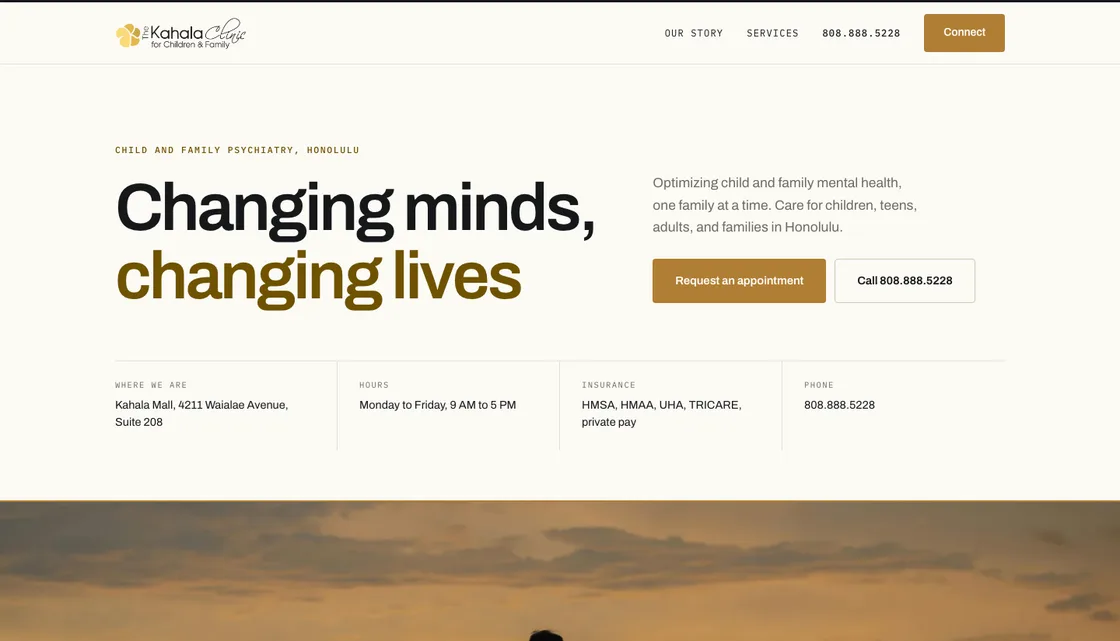
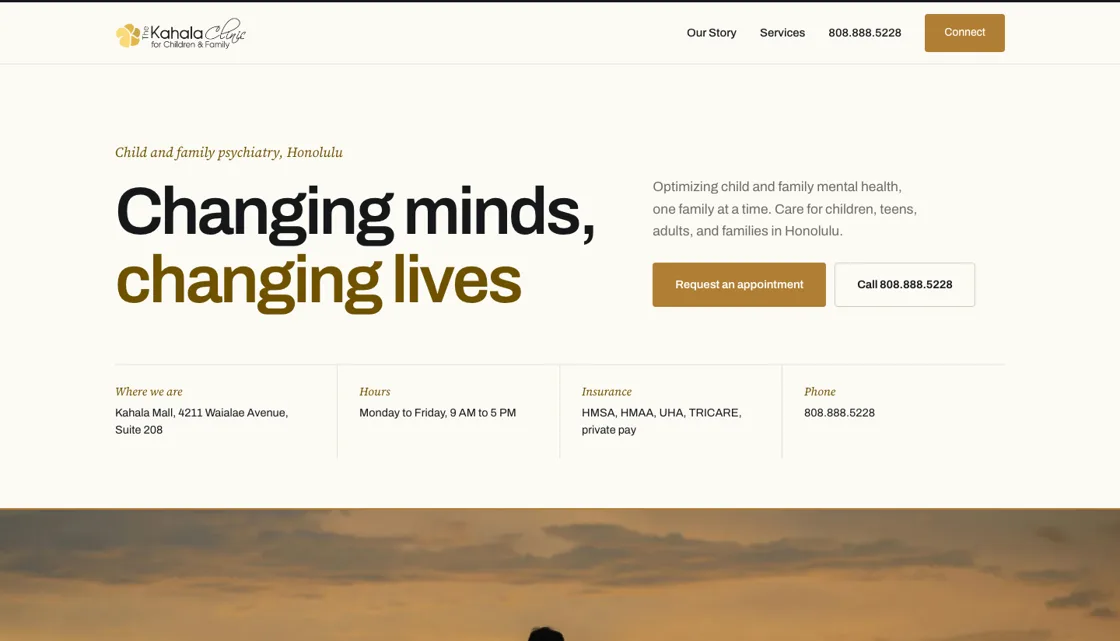
Daybreak: warm serif captions and numbers, parallax photo band, tighter approach
Swaps the monospaced labels, nav, captions and numbering for Archivo and
Source Serif 4, gives the Kahala, Honolulu band a gentle scroll parallax
(rAF throttled, off for reduced motion), and tightens the approach section
with a large serif numeral beside each point. Index card text and the
thumbnail are updated to match.

diff --git a/kahalaclinic/designs/two/index.html b/kahalaclinic/designs/two/index.html
@@ -7,7 +7,7 @@
 <title>Direction Two, Daybreak | Kahala Clinic Design Preview</title>
 <link rel="preconnect" href="https://fonts.googleapis.com">
 <link rel="preconnect" href="https://fonts.gstatic.com" crossorigin>
-<link href="https://fonts.googleapis.com/css2?family=Archivo:wght@400;500;600;700&family=IBM+Plex+Mono:wght@400;500&display=swap" rel="stylesheet">
+<link href="https://fonts.googleapis.com/css2?family=Archivo:wght@400;500;600;700&family=Source+Serif+4:ital,opsz,wght@0,8..60,400;0,8..60,500;1,8..60,400&display=swap" rel="stylesheet">
 <style>
 :root{
   --paper:#FCFAF5; --paper-2:#F5F1E8; --white:#FFFFFF;
@@ -16,7 +16,7 @@
   --line:#E4DFD3; --line-strong:#CFC7B5;
   --display:'Archivo',-apple-system,BlinkMacSystemFont,'Segoe UI',sans-serif;
   --body:'Archivo',-apple-system,BlinkMacSystemFont,'Segoe UI',sans-serif;
-  --mono:'IBM Plex Mono',ui-monospace,SFMono-Regular,Menlo,monospace;
+  --serif:'Source Serif 4',Georgia,'Times New Roman',serif;
   --max:1200px;
 }
 *{margin:0;padding:0;box-sizing:border-box}
@@ -35,7 +35,7 @@ h1,h2,h3{font-family:var(--display);font-weight:600;line-height:1.1;letter-spaci
 h2{font-size:clamp(30px,4.2vw,47px)}
 h3{font-size:19px;line-height:1.32;letter-spacing:-.015em}
 p{color:var(--muted)}
-.mono{font-family:var(--mono);font-size:11.5px;letter-spacing:.14em;text-transform:uppercase;color:var(--gold-deep);font-weight:500}
+.eyebrow{font-family:var(--serif);font-style:italic;font-size:18px;line-height:1.3;color:var(--gold-deep);font-weight:400}
 section{padding:clamp(66px,7.5vw,108px) 0}
 section.tight{padding:clamp(52px,6vw,80px) 0}
 .rule{height:1px;background:var(--line);border:0}
@@ -51,9 +51,9 @@ section.tight{padding:clamp(52px,6vw,80px) 0}
 .nav-in{max-width:var(--max);margin:0 auto;padding:15px 28px;display:flex;align-items:center;justify-content:space-between;gap:20px}
 .nav-logo img{height:42px;width:auto}
 .nav-links{display:flex;align-items:center;gap:30px}
-.nav-links a{font-family:var(--mono);font-size:12px;letter-spacing:.1em;text-transform:uppercase;text-decoration:none}
+.nav-links a{font-family:var(--body);font-size:15px;font-weight:500;letter-spacing:-.005em;text-decoration:none}
 .nav-links a:not(.btn):hover{color:var(--gold-deep)}
-.nav-links a.btn{font-family:var(--display);font-size:14px;letter-spacing:-.01em;text-transform:none;padding:12px 24px}
+.nav-links a.btn{font-family:var(--display);font-size:14px;letter-spacing:-.01em;padding:12px 24px}
 .nav-phone{font-weight:500}
 .nav-call{display:none}
 
@@ -70,21 +70,22 @@ section.tight{padding:clamp(52px,6vw,80px) 0}
 .fact{padding:22px 28px 26px 28px;border-right:1px solid var(--line)}
 .fact:first-child{padding-left:0}
 .fact:last-child{border-right:0;padding-right:0}
-.fact-l{font-family:var(--mono);font-size:10.5px;letter-spacing:.14em;text-transform:uppercase;color:var(--muted);margin-bottom:7px}
+.fact-l{font-family:var(--serif);font-style:italic;font-size:15px;color:var(--gold-deep);margin-bottom:5px}
 .fact p{color:var(--ink);font-size:14.5px;line-height:1.5}
 
 /* cinematic band */
-.band{position:relative;overflow:hidden;border-top:2px solid var(--gold);margin-top:clamp(40px,4.6vw,64px)}
-.band img{width:100%;aspect-ratio:21/8;object-fit:cover;object-position:center 44%;transform:scale(1.06);transition:transform 1.8s cubic-bezier(.2,.7,.3,1)}
+.band{position:relative;overflow:hidden;aspect-ratio:21/8;border-top:2px solid var(--gold);margin-top:clamp(40px,4.6vw,64px)}
+.band-media{position:absolute;left:0;right:0;top:-20%;bottom:-20%;will-change:transform}
+.band img{width:100%;height:100%;object-fit:cover;object-position:center 44%;transform:scale(1.06);transition:transform 1.8s cubic-bezier(.2,.7,.3,1)}
 .hero.in .band img{transform:none}
-.band-cap{position:absolute;right:22px;bottom:16px;font-family:var(--mono);font-size:10.5px;letter-spacing:.14em;text-transform:uppercase;color:#fff;text-shadow:0 1px 10px rgba(0,0,0,.6)}
+.band-cap{position:absolute;right:24px;bottom:16px;font-family:var(--serif);font-style:italic;font-size:17px;color:#fff;text-shadow:0 1px 12px rgba(0,0,0,.6)}
 
 /* story */
 .story{display:grid;grid-template-columns:5fr 7fr;gap:clamp(28px,4.6vw,70px);align-items:center}
 .story p+p{margin-top:14px}
 .shot{position:relative}
 .shot img{width:100%;aspect-ratio:4/5;object-fit:cover;filter:grayscale(1) contrast(1.04)}
-.shot-cap{font-family:var(--mono);font-size:10.5px;letter-spacing:.12em;text-transform:uppercase;color:var(--muted);margin-top:11px}
+.shot-cap{font-family:var(--serif);font-style:italic;font-size:15px;color:var(--muted);margin-top:10px}
 
 /* mission, oversized statement */
 .mission{background:var(--paper-2);border-top:1px solid var(--line);border-bottom:1px solid var(--line)}
@@ -98,11 +99,12 @@ section.tight{padding:clamp(52px,6vw,80px) 0}
 .care-side{position:sticky;top:112px}
 .care-side p{margin-top:18px;font-size:16.5px;max-width:34ch}
 .care-bar{width:64px;height:3px;background:var(--gold);margin-top:28px}
-.care-item{padding-bottom:clamp(56px,8vw,120px)}
+.care-item{display:grid;grid-template-columns:clamp(44px,4.6vw,64px) 1fr;gap:clamp(14px,2vw,24px);align-items:start;padding-bottom:clamp(30px,3.6vw,46px)}
 .care-item:last-child{padding-bottom:0}
-.care-tag{font-family:var(--mono);font-size:11.5px;letter-spacing:.14em;color:var(--gold);margin-bottom:16px}
-.care-item h3{font-size:clamp(23px,2.5vw,31px);line-height:1.18;letter-spacing:-.025em;max-width:26ch}
-.care-item p{margin-top:14px;font-size:16.5px;max-width:46ch}
+.care-tag{font-family:var(--serif);font-size:clamp(40px,4.4vw,56px);line-height:.9;color:var(--gold);font-weight:400}
+.care-item h3{font-size:clamp(22px,2.3vw,28px);line-height:1.2;letter-spacing:-.025em;max-width:26ch}
+.care-item p{margin-top:10px;font-size:16.5px;max-width:46ch}
+section.care-sec{padding:clamp(56px,6vw,88px) 0}
 
 /* treatment, an open grid divided by one hairline cross */
 .offer{background:var(--paper-2);border-top:1px solid var(--line)}
@@ -112,18 +114,18 @@ section.tight{padding:clamp(52px,6vw,80px) 0}
 .cell{background:var(--paper-2);padding:clamp(28px,3.4vw,44px) clamp(24px,3.4vw,48px);min-height:clamp(180px,18vw,240px);display:flex;flex-direction:column;justify-content:space-between;gap:28px;transition:background-color .3s ease}
 .cell:nth-child(odd){padding-left:0}
 .cell:hover{background:var(--paper)}
-.cell-n{font-family:var(--mono);font-size:11.5px;letter-spacing:.14em;color:var(--gold)}
+.cell-n{font-family:var(--serif);font-size:34px;line-height:1;color:var(--gold);font-weight:400}
 .cell-t{font-family:var(--display);font-weight:600;font-size:clamp(22px,2.4vw,30px);line-height:1.15;letter-spacing:-.025em;color:var(--ink)}
 .cell-p{margin-top:10px;font-size:15px;max-width:34ch}
 
 /* footer */
 .foot{background:var(--ink);color:#E6E2D9;padding:clamp(54px,6vw,78px) 0 0}
 .foot-grid{display:grid;grid-template-columns:1.5fr 1fr 1fr 1fr;gap:34px}
-.foot h4{font-family:var(--mono);font-size:10.5px;letter-spacing:.14em;text-transform:uppercase;color:var(--gold-light);font-weight:500;margin-bottom:12px}
+.foot h4{font-family:var(--serif);font-style:italic;font-size:17px;color:var(--gold-light);font-weight:400;margin-bottom:10px}
 .foot p{font-size:14.5px;color:#E6E2D9;line-height:1.75}
 .foot-logo img{height:48px;width:auto;margin-bottom:14px}
 .foot-note{color:#A7A196;margin-top:9px;font-size:13.5px}
-.foot-bottom{margin-top:clamp(38px,4vw,54px);border-top:1px solid #2E3135;padding:20px 0 26px;display:flex;justify-content:space-between;gap:14px;flex-wrap:wrap;font-family:var(--mono);font-size:11px;letter-spacing:.08em;text-transform:uppercase;color:#A7A196}
+.foot-bottom{margin-top:clamp(38px,4vw,54px);border-top:1px solid #2E3135;padding:20px 0 26px;display:flex;justify-content:space-between;gap:14px;flex-wrap:wrap;font-size:13.5px;color:#A7A196}
 
 .rv{opacity:0;transform:translateY(15px);transition:opacity .75s cubic-bezier(.2,.7,.3,1),transform .75s cubic-bezier(.2,.7,.3,1)}
 .rv.in{opacity:1;transform:none}
@@ -139,7 +141,7 @@ section.tight{padding:clamp(52px,6vw,80px) 0}
   .fact:nth-child(even){border-right:0;padding-right:0}
   .fact:nth-child(n+3){border-top:1px solid var(--line)}
   .story .shot{order:-1;max-width:420px}
-  .band img{aspect-ratio:16/9}
+  .band{aspect-ratio:16/9}
   .foot-grid{gap:26px}
 }
 @media (max-width:767px){
@@ -149,7 +151,7 @@ section.tight{padding:clamp(52px,6vw,80px) 0}
   .facts{grid-template-columns:1fr}
   .fact{border-right:0;padding-left:0;padding-right:0;border-top:1px solid var(--line)}
   .fact:first-child{border-top:0}
-  .band img{aspect-ratio:4/3}
+  .band{aspect-ratio:4/3}
   .matrix{grid-template-columns:1fr}
   .cell{min-height:0;padding-left:0;padding-right:0}
 }
@@ -183,7 +185,7 @@ section.tight{padding:clamp(52px,6vw,80px) 0}
   <div class="wrap">
     <div class="hero-grid">
       <div>
-        <div class="mono hero-mono">Child and family psychiatry, Honolulu</div>
+        <div class="eyebrow hero-mono">Child and family psychiatry, Honolulu</div>
         <h1>Changing minds,<span>changing lives</span></h1>
       </div>
       <div class="hero-side">
@@ -202,7 +204,7 @@ section.tight{padding:clamp(52px,6vw,80px) 0}
     </div>
   </div>
   <div class="band">
-    <img src="../img/hero-family-sunset.webp" alt="A family together at sunset on Oahu">
+    <div class="band-media"><img src="../img/hero-family-sunset.webp" alt="A family together at sunset on Oahu"></div>
     <div class="band-cap">Kahala, Honolulu</div>
   </div>
 </section>
@@ -214,7 +216,7 @@ section.tight{padding:clamp(52px,6vw,80px) 0}
       <div class="shot-cap">Placeholder caption. A real photo of the clinic and the team goes here.</div>
     </div>
     <div class="rv">
-      <div class="mono" style="margin-bottom:14px">Our Moolelo</div>
+      <div class="eyebrow" style="margin-bottom:14px">Our Moolelo</div>
       <h2>Rooted in Kahala since 2008</h2>
       <p style="margin-top:18px">Lorem ipsum dolor sit amet, consectetur adipiscing elit, sed do eiusmod tempor incididunt ut labore et dolore magna aliqua. Ut enim ad minim veniam, quis nostrud exercitation.</p>
       <p>Duis aute irure dolor in reprehenderit in voluptate velit esse cillum dolore eu fugiat nulla pariatur.</p>
@@ -225,24 +227,24 @@ section.tight{padding:clamp(52px,6vw,80px) 0}
 <section class="mission tight">
   <div class="mission-in rv">
     <div class="bar"></div>
-    <div class="mono" style="margin-bottom:16px">Our mission</div>
+    <div class="eyebrow" style="margin-bottom:16px">Our mission</div>
     <h2>Every journey is an opportunity for growth</h2>
     <p>Lorem ipsum dolor sit amet, consectetur adipiscing elit, sed do eiusmod tempor incididunt ut labore et dolore magna aliqua.</p>
   </div>
 </section>
 
-<section>
+<section class="care-sec">
   <div class="wrap care">
     <div class="care-side rv">
-      <div class="mono" style="margin-bottom:14px">Our approach</div>
+      <div class="eyebrow" style="margin-bottom:14px">Our approach</div>
       <h2>How we care for families</h2>
       <p>Lorem ipsum dolor sit amet, consectetur adipiscing elit, sed do eiusmod tempor incididunt ut labore.</p>
       <div class="care-bar"></div>
     </div>
     <div class="care-list">
-      <div class="care-item rv"><div class="care-tag">01 / 03</div><h3>One clinician, the whole team behind them</h3><p>Lorem ipsum dolor sit amet, consectetur adipiscing elit, sed do eiusmod tempor incididunt ut labore et dolore magna aliqua.</p></div>
-      <div class="care-item rv"><div class="care-tag">02 / 03</div><h3>Personalized, data-driven care</h3><p>Ut enim ad minim veniam, quis nostrud exercitation ullamco laboris nisi ut aliquip ex ea commodo consequat.</p></div>
-      <div class="care-item rv"><div class="care-tag">03 / 03</div><h3>Expertise in complex cases</h3><p>Excepteur sint occaecat cupidatat non proident, sunt in culpa qui officia deserunt mollit anim id est laborum.</p></div>
+      <div class="care-item rv"><div class="care-tag">1</div><div><h3>One clinician, the whole team behind them</h3><p>Lorem ipsum dolor sit amet, consectetur adipiscing elit, sed do eiusmod tempor incididunt ut labore et dolore magna aliqua.</p></div></div>
+      <div class="care-item rv"><div class="care-tag">2</div><div><h3>Personalized, data-driven care</h3><p>Ut enim ad minim veniam, quis nostrud exercitation ullamco laboris nisi ut aliquip ex ea commodo consequat.</p></div></div>
+      <div class="care-item rv"><div class="care-tag">3</div><div><h3>Expertise in complex cases</h3><p>Excepteur sint occaecat cupidatat non proident, sunt in culpa qui officia deserunt mollit anim id est laborum.</p></div></div>
     </div>
   </div>
 </section>
@@ -251,16 +253,16 @@ section.tight{padding:clamp(52px,6vw,80px) 0}
   <div class="wrap">
     <div class="offer-head rv">
       <div>
-        <div class="mono" style="margin-bottom:14px">What we offer</div>
+        <div class="eyebrow" style="margin-bottom:14px">What we offer</div>
         <h2>Evidence-based treatment</h2>
       </div>
       <p>Ut enim ad minim veniam, quis nostrud exercitation ullamco laboris nisi ut aliquip ex ea commodo.</p>
     </div>
     <div class="matrix">
-      <div class="cell rv"><div class="cell-n">01 / 04</div><div><div class="cell-t">Individual, couples, and family therapy</div><p class="cell-p">Lorem ipsum dolor sit amet, consectetur adipiscing elit.</p></div></div>
-      <div class="cell rv"><div class="cell-n">02 / 04</div><div><div class="cell-t">Medication management</div><p class="cell-p">Sed do eiusmod tempor incididunt ut labore et dolore.</p></div></div>
-      <div class="cell rv"><div class="cell-n">03 / 04</div><div><div class="cell-t">Sleep management</div><p class="cell-p">Ut enim ad minim veniam, quis nostrud exercitation.</p></div></div>
-      <div class="cell rv"><div class="cell-n">04 / 04</div><div><div class="cell-t">Osteopathic Manipulative Medicine</div><p class="cell-p">Duis aute irure dolor in reprehenderit in voluptate.</p></div></div>
+      <div class="cell rv"><div class="cell-n">1</div><div><div class="cell-t">Individual, couples, and family therapy</div><p class="cell-p">Lorem ipsum dolor sit amet, consectetur adipiscing elit.</p></div></div>
+      <div class="cell rv"><div class="cell-n">2</div><div><div class="cell-t">Medication management</div><p class="cell-p">Sed do eiusmod tempor incididunt ut labore et dolore.</p></div></div>
+      <div class="cell rv"><div class="cell-n">3</div><div><div class="cell-t">Sleep management</div><p class="cell-p">Ut enim ad minim veniam, quis nostrud exercitation.</p></div></div>
+      <div class="cell rv"><div class="cell-n">4</div><div><div class="cell-t">Osteopathic Manipulative Medicine</div><p class="cell-p">Duis aute irure dolor in reprehenderit in voluptate.</p></div></div>
     </div>
   </div>
 </section>
@@ -298,6 +300,20 @@ section.tight{padding:clamp(52px,6vw,80px) 0}
   var reduce = window.matchMedia('(prefers-reduced-motion: reduce)').matches;
   var hero = document.querySelector('.hero');
   if(hero){ if(reduce){ hero.classList.add('in'); } else { requestAnimationFrame(function(){ hero.classList.add('in'); }); } }
+  var band = document.querySelector('.band'), media = document.querySelector('.band-media');
+  if(band && media && !reduce){
+    var ticking = false;
+    var move = function(){
+      ticking = false;
+      var r = band.getBoundingClientRect(), vh = window.innerHeight;
+      if(r.bottom < 0 || r.top > vh) return;
+      var off = (r.top + r.height / 2) - vh / 2;
+      media.style.transform = 'translate3d(0,' + (off * 0.1).toFixed(1) + 'px,0)';
+    };
+    window.addEventListener('scroll', function(){ if(!ticking){ ticking = true; requestAnimationFrame(move); } }, {passive:true});
+    window.addEventListener('resize', move, {passive:true});
+    move();
+  }
   var items = document.querySelectorAll('.rv');
   if(reduce || !('IntersectionObserver' in window)){
     Array.prototype.forEach.call(items, function(el){ el.classList.add('in'); });

diff --git a/kahalaclinic/designs/index.html b/kahalaclinic/designs/index.html
@@ -134,19 +134,19 @@ p{color:var(--muted)}
       <div class="dnum">Direction two</div>
       <h2>Daybreak</h2>
       <div class="dsub">The disciplined one</div>
-      <p>This is the quiet, disciplined one. Warm off white paper, one big confident headline, and small typewriter style labels that make it read like a considered publication rather than a template. There are no boxes anywhere. Your approach reads like a magazine spread, with the heading holding still while the three points scroll past it, and your treatments sit in an open grid divided by one thin cross. The sunset photo runs the full width of the page as a wide cinematic band right under the headline, with nothing sitting on top of it.</p>
+      <p>This is the quiet, disciplined one. Warm off white paper, one big confident headline, and small serif captions that make it read like a considered publication rather than a template. There are no boxes anywhere. Your approach reads like a magazine spread, with the heading on one side and three numbered points on the other, and your treatments sit in an open grid divided by one thin cross. The sunset photo runs the full width of the page as a wide cinematic band right under the headline, with nothing sitting on top of it, and it drifts gently as you scroll.</p>
       <p>Your story photo is set in black and white with a small caption under it, the way a magazine would run it. This is the direction that looks most like a practice that knows exactly what it is doing, and it is the one that would hold up best as you add more pages and more content later.</p>
       <div class="spec">
         <div>
           <h3>Type and color</h3>
-          <p>One strong sans doing all the headline and body work, with a typewriter face for the small labels and numbers. Warm paper and near black, with gold used only as a thin rule and a single highlighted line.</p>
+          <p>One strong sans doing all the headline and body work, with a warm serif for the small captions and numbers. Warm paper and near black, with gold used only as a thin rule and a single highlighted line.</p>
         </div>
         <div>
           <h3>The trade-off</h3>
           <p>The restraint is the point, and restraint can read as cool. There is no softness in the shapes here, so all the warmth has to come from the photography and the words. That puts more weight on the headshot session than the other two, and it makes the writing pass matter more.</p>
         </div>
       </div>
-      <div class="trynote"><b>Worth trying.</b> Scroll slowly through the approach section and watch the heading stay put while the three points pass it, then rest your cursor on the treatment grid.</div>
+      <div class="trynote"><b>Worth trying.</b> Scroll slowly past the sunset photo and watch it drift behind the page, then rest your cursor on the treatment grid.</div>
       <div class="actions">
         <a class="btn btn-gold" href="two/">Open direction two</a>
       </div>
